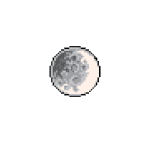
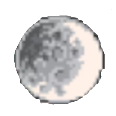
use custom assets

diff --git a/src/helpers/DragHelper.tsx b/src/helpers/DragHelper.tsx
@@ -12,14 +12,30 @@ export const isRainy = (code: number) => [51, 53, 55, 61, 63, 65, 80, 81, 82].in
 export const isStormy = (code: number) => [95, 96, 99].includes(code)
 
 // Map WMO weather codes to emoji
-export const getEmojiForCode = (code: number): string => {
-	if (isThunderstorm(code)) return '⛈'
-	if (isRain(code)) return '🌧'
-	if (isFog(code)) return '🌫'
-	if (isCloud(code) && code <= 1) return '☀'
-	if (isCloud(code)) return '⛅'
-	if (isSnow(code)) return '❄'
-	return '✨'
+export const getEmojiForCode = (
+  code: number,
+  opts?: { date?: Date; isNight?: boolean }
+): any => {
+  // Determine night vs day: explicit flag > provided date > local time
+  const isNight = opts?.isNight ?? (() => {
+    const d = opts?.date ?? new Date()
+    const h = d.getHours()
+    return h < 6 || h >= 18
+  })()
+
+  const prefix = isNight ? 'night_' : 'day_'
+
+  // Use specific night/day variants where available
+  if (isThunderstorm(code)) return <img src={`/${prefix}thunderstorm.png`} alt="thunderstorm" className="dq-weather-icon" />
+  if (isRain(code)) return <img src={`/${prefix}rainy.png`} alt="rain" className="dq-weather-icon" />
+  if (isFog(code)) return <img src={`/${prefix}cloudy.png`} alt="fog" className="dq-weather-icon" />
+  if (isCloud(code) && code <= 1) return <img src={`/${prefix}clear.png`} alt="clear" className="dq-weather-icon" />
+  if (isCloud(code)) {
+    const cloudFile = isNight ? 'night_cloudy_partially.png' : 'day_cloudy_partially.png'
+    return <img src={`/${cloudFile}`} alt="cloudy" className="dq-weather-icon" />
+  }
+  if (isSnow(code)) return <img src={`/${prefix}snowy.png`} alt="snow" className="dq-weather-icon" />
+  return <img src={`/${prefix}clear.png`} alt="clear" className="dq-weather-icon" />
 }
 
 type CurrentLike = Pick<CurrentWeather, 'temperatureF' | 'weatherCode'> | { temperature: number; weathercode: number }

diff --git a/src/components/cards/HourlyForecast.tsx b/src/components/cards/HourlyForecast.tsx
@@ -21,17 +21,24 @@ export function HourlyForecast({ hourly, unit, tempSymbol }: HourlyForecastProps
       <div className="dq-hourly-scroll">
         {hourly.map((hour, i) => {
           const hourTemp = unit === 'F' ? Math.round(hour.temperatureF) : Math.round(farToCel(hour.temperatureF));
+          const hourDate = hour.time instanceof Date ? hour.time : new Date(hour.time);
+          const hourHour = hourDate.getHours();
+          const isNight = hourHour < 6 || hourHour >= 18;
           return (
             <div className="dq-hourly-card" key={`h-${i}`}>
               <div className="dq-hourly-time">
                 {hour.time.toLocaleTimeString([], { hour: '2-digit', minute: '2-digit' })}
               </div>
-              <div className="dq-hourly-emoji">{getEmojiForCode(hour.weatherCode)}</div>
+              <div className="dq-hourly-emoji">{getEmojiForCode(hour.weatherCode, { date: hourDate, isNight })}</div>
               <div className="dq-hourly-bottom">
                 <div className="dq-hourly-temp">{hourTemp}{tempSymbol}</div>
                 {hour.precipitationProbability !== undefined && (
                   <div className="dq-hourly-precip">
-                    {isSnow(hour.weatherCode) ? '❄' : '💧'} {Math.round(hour.precipitationProbability)}%
+                    {isSnow(hour.weatherCode) ? (
+                      <img src="/snowflake.png" alt="snow" className="dq-precip-icon" />
+                    ) : (
+                      <img src='/raindrop.png' alt="rain" className="dq-precip-icon" />
+                    )} {Math.round(hour.precipitationProbability)}%
                   </div>
                 )}
               </div>

diff --git a/src/components/cards/HourlyForecast.css b/src/components/cards/HourlyForecast.css
@@ -38,7 +38,7 @@
   flex-shrink: 0;
   gap: 0.5rem;
   justify-content: center;
-  min-width: 80px;
+  min-width: 110px;
   padding: 0.75rem 0.6rem;
   text-align: center;
 }
@@ -49,6 +49,10 @@
 }
 .dq-hourly-emoji {
   font-size: 1.5rem;
+  min-height: 64px;
+  display: flex;
+  align-items: center;
+  justify-content: center;
 }
 .dq-hourly-bottom {
   display: flex;
@@ -78,7 +82,7 @@
     margin-bottom: 0.75rem;
   }
   .dq-hourly-card {
-    min-width: 75px;
+    min-width: 100px;
     padding: 0.8rem 0.6rem;
     gap: 0.5rem;
   }
@@ -87,6 +91,7 @@
   }
   .dq-hourly-emoji {
     font-size: 1.8rem;
+    min-height: 64px;
   }
   .dq-hourly-temp {
     font-size: 1rem;
@@ -100,7 +105,7 @@
   }
   .dq-hourly-card {
     gap: 0.4rem;
-    min-width: 65px;
+    min-width: 90px;
     padding: 0.7rem 0.5rem;
   }
   .dq-hourly-time {
@@ -108,6 +113,7 @@
   }
   .dq-hourly-emoji {
     font-size: 1.5rem;
+    min-height: 56px;
   }
   .dq-hourly-temp {
     font-size: 0.9rem;

diff --git a/src/pages/WeeklyForecast.tsx b/src/pages/WeeklyForecast.tsx
@@ -28,7 +28,7 @@ export function WeeklyForecast({ daily, unit }: WeeklyForecastProps) {
                 {day.date.toLocaleDateString('en-US', { month: 'short', day: 'numeric' })}
               </div>
               <div className="dq-weekly-day">{DraggifyNameOfDay(day.date.getDay())}</div>
-              <div className="dq-weekly-emoji">{getEmojiForCode(day.weatherCode)}</div>
+              <div className="dq-weekly-emoji">{getEmojiForCode(day.weatherCode, { isNight: false })}</div>
               <div className="dq-weekly-temps">
                 <span className="dq-weekly-high">{high}{tempSymbol}</span>
                 <span className="dq-weekly-divider">/</span>

diff --git a/src/pages/WeeklyForecast.css b/src/pages/WeeklyForecast.css
@@ -81,6 +81,7 @@
   align-items: center;
   justify-content: center;
   font-size: 2rem;
+  width: 64px;
 }
 
 
@@ -133,7 +134,7 @@
 
   .dq-weekly-emoji {
     font-size: 2.5rem;
-    width: 48px;
+    width: 64px;
   }
 
   .dq-weekly-temps {
@@ -171,7 +172,7 @@
     flex: 2;
     font-size: 2rem;
     margin: 0;
-    width: 44px;
+    width: 56px;
   }
 
   .dq-weekly-temps {

diff --git a/src/index.css b/src/index.css
@@ -65,3 +65,18 @@ button:focus-visible {
     background-color: #f9f9f9;
   }
 }
+
+/* Weather icon sizing used across components */
+.dq-weather-icon,
+.dq-precip-icon {
+  width: 50px;
+  height: 50px;
+  object-fit: contain;
+  vertical-align: middle;
+}
+
+/* Slightly smaller for precip icons */
+.dq-precip-icon {
+  width: 16px;
+  height: 16px;
+}

diff --git a/src/components/cards/TodaysForecast.css b/src/components/cards/TodaysForecast.css
@@ -25,6 +25,11 @@
 .dq-temp-emoji {
   font-size: 3.5rem;
 }
+/* make today's main icon larger than standard icons */
+.dq-temp-emoji img.dq-weather-icon {
+  width: 96px;
+  height: 96px;
+}
 .dq-temp-display {
   font-size: 3rem;
   font-weight: 900;
